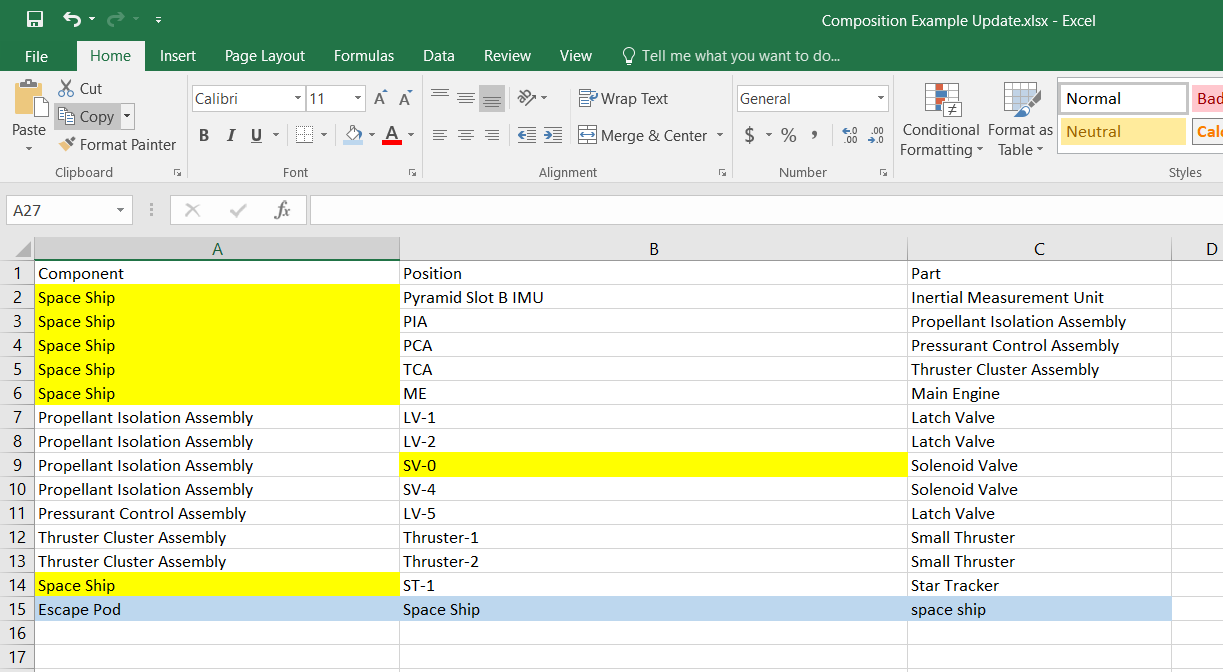
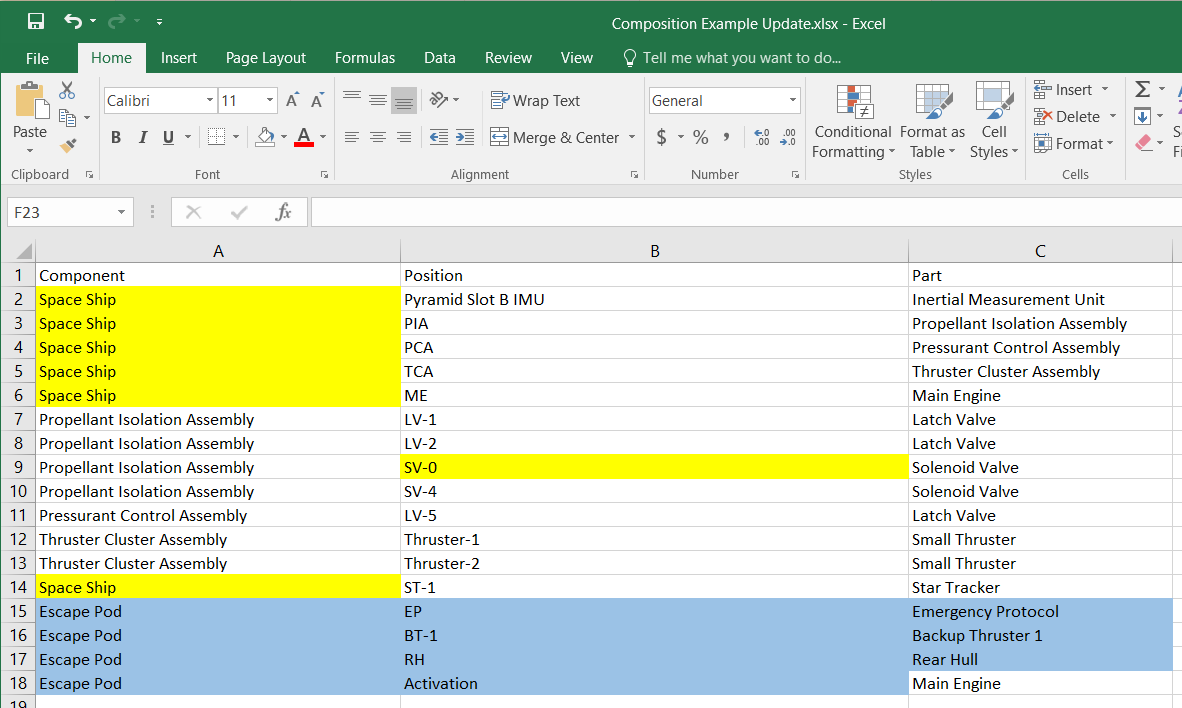
finished model updates with same pattern, generated data for pattern layering.

diff --git a/ingrid-quick-start/QUICKSTART.md b/ingrid-quick-start/QUICKSTART.md
@@ -108,7 +108,10 @@ Afterwards, they switch back to the pattern tab, `Composition`, and change all o
 | Thruster Cluster Assembly | Thruster-1 | Small Thruster |
 | Thruster Cluster Assembly | Thruster-2 | Small Thruster |
 | Space Ship | ST-1 | Star Tracker |
-| Escape Pod | Space Ship | space ship |
+| Escape Pod | EP | Emergency Protocol |
+| Escape Pod | BT-1 | Backup Thruster 1 |
+| Escape Pod | RH | Rear Hull |
+| Escape Pod | Activation | Main Engine |
 
 ![](images/updated-data.png)
 
@@ -126,14 +129,25 @@ Without `anaconda-project`:
 model-processing --compare --original "../../rapid-modeling-tools/ingrid-quick-start/Composition Example Baseline.xlsx" --update "../../rapid-modeling-tools/ingrid-quick-start/Composition Example Update.xlsx"
 ```
 
-**This command assumes yuo have the model-processing package installed and an environment with the required packages and that you invoke Ingrid on the command line from the location of the `anaconda-project.yaml`**
+**This command assumes you have the model-processing package installed and an environment with the required packages and that you invoke Ingrid on the command line from the location of the `anaconda-project.yaml`**
 
 [../ingrid/README.md](../ingrid/README.md) contains a detailed explanation of the commands given above, what the flags means and more.
 
 Successful execution will create two files, one titled "graph_diff_changes_<date-time>.JSON" and an Excel file named "Model Diffs <date time>.xlsx"
 
-Inspecting the Model Diffs Excel file shows the results of the change detection. The file contains four columns: Edit 1, Edit 2, Unstable Matches Original, and Unstable Matches Change. Edit 1 and Edit 2 contain confidently identified edge changes with Edit 1 containing edges from document passed as the "original" and Edit 2 displays edges from the "update" file. Unstable Matches Original and Change show changes that Ingrid could not determine, with edges from each file in their respective column. Ingrid included all the changes from Edit 1 to Edit 2 in the "graph_diff_changes" JSON but excluded the Unstable Changes. Ingrid assumes the user will resolve the ambiguous changes or provide additional context to the `--update` file (typically including renames) and reprocessing.
+Inspecting the Model Diffs Excel file shows the results of the change detection. The file contains four columns: Edit 1, Edit 2, Unstable Matches Original, and Unstable Matches Change, columns for Added and Deleted edges included when detected. Edit 1 and Edit 2 contain confidently identified edge changes with Edit 1 containing edges from document passed as the "original" and Edit 2 displays edges from the "update" file. Unstable Matches Original and Change show changes that Ingrid could not determine, with edges from each file in their respective column. Ingrid included all the changes from Edit 1 to Edit 2 in the "graph_diff_changes" JSON but excluded the Unstable Changes. Ingrid assumes the user will resolve the ambiguous changes or provide additional context to the `--update` file (typically including renames) and reprocessing.
 
-In this case, Ingrid identified 36 change operations and failed to recognize zero changes. Meaning the Player Piano will update the model to reflect the changes in the `Composition Example Update.xlsx`.
+The "graph_diff_changes_ <date-time>.JSON" updates the model to reflect the renames and element additions. Once again, open the associated Cameo model and click on the **Tools** tab. Choose **Macros > Player Piano** and select the package to update, it will be the same as the model created at the beginning, navigate to the "graph_diff_changes_ <date-time>.JSON" select and execute the macro. Successful execution of the macro changes element names and adds new elements to the containment tree.
 
-**Check on Renames Updating in MagicDraw.**
+![](images/updated-model.png)
+
+
+### Pattern Layering
+
+Complex models in MBSE rely on multiple SysML metamodels and patterns; pattern layering with RMT allows modelers to automatically build complex models through a series of `--compare` calls. As an example, the quick start will now layer a SystemParts pattern onto the model developed in the previous sections.
+
+
+| Component | Part | Context | Role | Assoc |
+|-|-|-|-|-|
+| new comp | new part | new context | new role | new assoc |
+| second comp | second part | second context | second role | second assoc |
